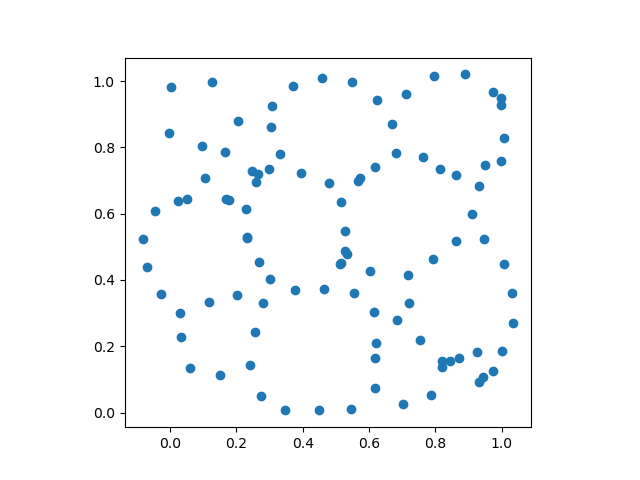
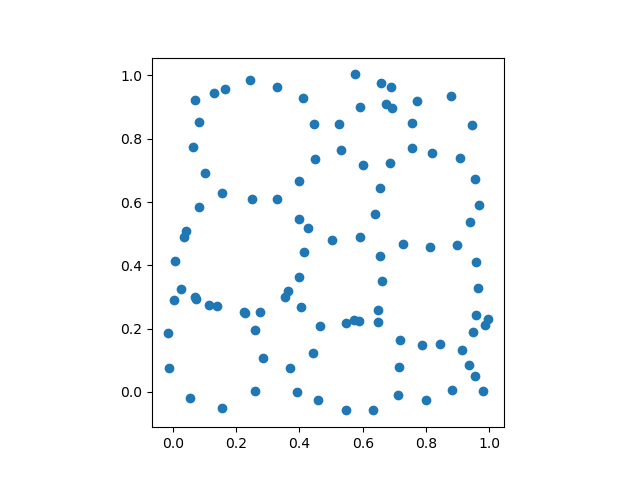
update pictures

diff --git a/demo/py/opt_rips_enc/opt_rips_enclosing_radius.py b/demo/py/opt_rips_enc/opt_rips_enclosing_radius.py
@@ -9,6 +9,7 @@ X = np.random.uniform(0,1,(n,2))
 # X = X / np.linalg.norm(X, axis=1).reshape(-1,1)
 # X = X + np.random.normal(size=(n,2), scale = 0.1 )
 fig1 = plt.scatter(X[:,0], X[:,1])
+fig1.axes.set_aspect('equal')
 plt.savefig('orginal_dataset_rips.png')
 plt.clf()
 
